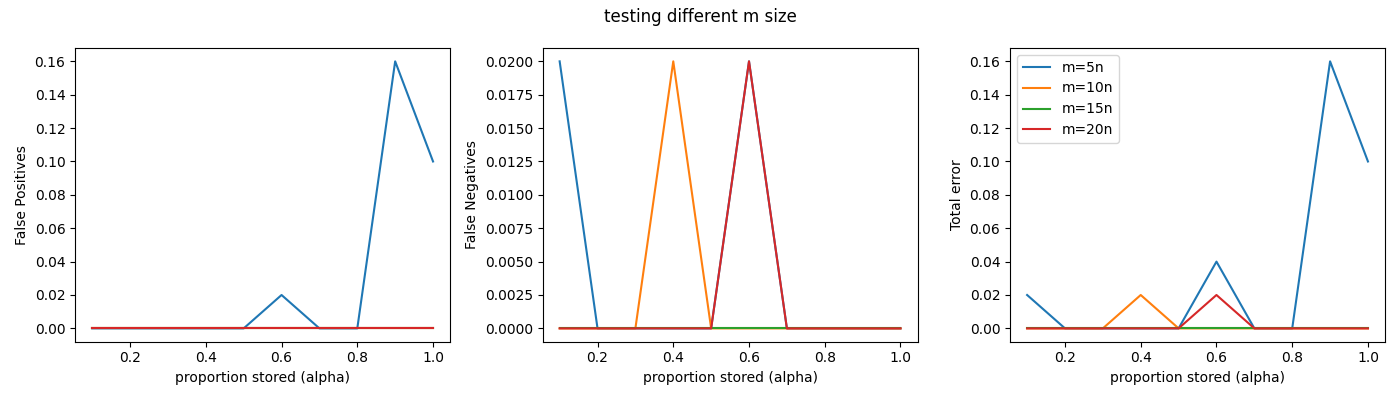
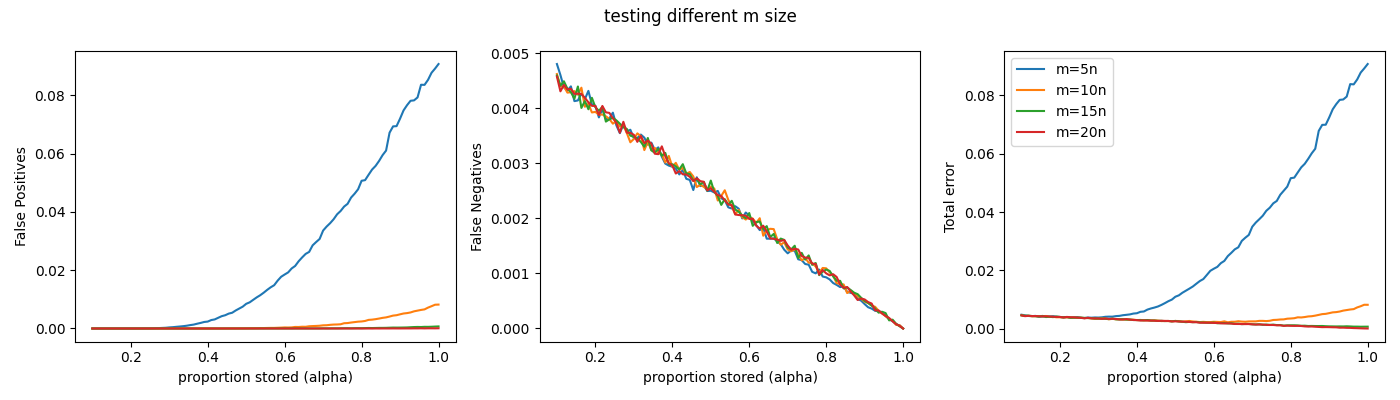
Better looking tests

diff --git a/Partial filter.py b/Partial filter.py
@@ -5,29 +5,8 @@ import random
 import matplotlib.pyplot as plt
 from typing import Optional
 import numpy as np
-
-
-# Generating hash functions via index.
-# See https://stackoverflow.com/questions/2255604/hash-functions-family-generator-in-python#:~:text=The%20universal%20hash%20family%20is,drawn%20randomly%20from%20set%20H%20.
-
-def universal_hashing():
-    def rand_prime():
-        while True:
-            p = random.randrange(2 ** 32, 2 ** 34, 2)
-            if all(p % n != 0 for n in range(3, int((p ** 0.5) + 1), 2)):
-                return p
-
-    m = 2 ** 32 - 1
-    p = rand_prime()
-    a = random.randint(0, p)
-    if a % 2 == 0:
-        a += 1
-    b = random.randint(0, p)
-
-    def h(x):
-        return ((a * x + b) % p) % m
-
-    return h
+import math
+from helpers import *
 
 
 # Doesn't work very well
@@ -61,11 +40,11 @@ class FilterInterface():
         self: has well-defined self.m and self.n values.
 
         --- Output ---
-        k: optimal k value given by int(np.log(2) * self.m / self.n)
+        k: optimal k value given by np.log(2) * self.m / self.n
         """
         if self.n == 0:
             return 0
-        return int(np.log(2) * self.m / self.n)
+        return round(np.log(2) * self.m / self.n)
 
     def __contains__(self, item: int) -> bool:
         for hash in self.hashes:
@@ -108,7 +87,7 @@ class PartialFilter(FilterInterface):
         alpha: portion of elements to actually store
         """
         super().__init__()
-        self.n = int(len(S) * alpha)
+        self.n = round(len(S) * alpha)
         self.m = m
         if k is None:
             self.k = self.optimal_k()
@@ -131,6 +110,10 @@ class PartialFilter(FilterInterface):
         m: length of array.
         p: porportion of U that is in S.
         """
+        def optimal_FPR():
+            """
+            Calculate the optimal FPR (F') under the current constraints.
+            """
         return
 
 
@@ -159,7 +142,7 @@ class RetouchedFilter(FilterInterface):
 
         # Retouching
         nonzero_bits = [i for i, b in enumerate(self.a) if b != 0]
-        n_reset_bits = int(beta * len(nonzero_bits))
+        n_reset_bits = round(beta * len(nonzero_bits))
         reset_bit_inds = np.random.choice(nonzero_bits, n_reset_bits, replace=False)
         for i in reset_bit_inds:
             self.a[i] = 0
@@ -231,7 +214,7 @@ def test_alpha(alpha_range: np.ndarray,
     return FPR, FNR
 
 
-def test_m(multiplier_range=range(5, 25, 5), n=10000):
+def test_m(multiplier_range=range(7, 22, 3), n=10000):
     U = 2000000
 
     fig, (ax1, ax2, ax3) = plt.subplots(1, 3, figsize=(14, 4))
@@ -258,6 +241,8 @@ def test_m(multiplier_range=range(5, 25, 5), n=10000):
         ax2.plot(alpha_range, FNR, label='m={}n'.format(multiplier))
         ax3.plot(alpha_range, FPR + FNR, label='m={}n'.format(multiplier))
 
+    ax1.legend()
+    ax2.legend()
     ax3.legend()
     fig.tight_layout()
     plt.savefig('test_m')

diff --git a/helpers.py b/helpers.py
@@ -1,0 +1,26 @@
+import random
+import math
+
+# Generating hash functions via index.
+# See https://stackoverflow.com/questions/2255604/hash-functions-family-generator-in-python#:~:text=The%20universal%20hash%20family%20is,drawn%20randomly%20from%20set%20H%20.
+def universal_hashing():
+    def rand_prime():
+        while True:
+            p = random.randrange(2 ** 32, 2 ** 34, 2)
+            if all(p % n != 0 for n in range(3, int((p ** 0.5) + 1), 2)):
+                return p
+
+    m = 2 ** 32 - 1
+    p = rand_prime()
+    a = random.randint(0, p)
+    if a % 2 == 0:
+        a += 1
+    b = random.randint(0, p)
+
+    def h(x):
+        return ((a * x + b) % p) % m
+
+    return h
+
+def round(x: float) -> int:
+    return int(x+0.5)
